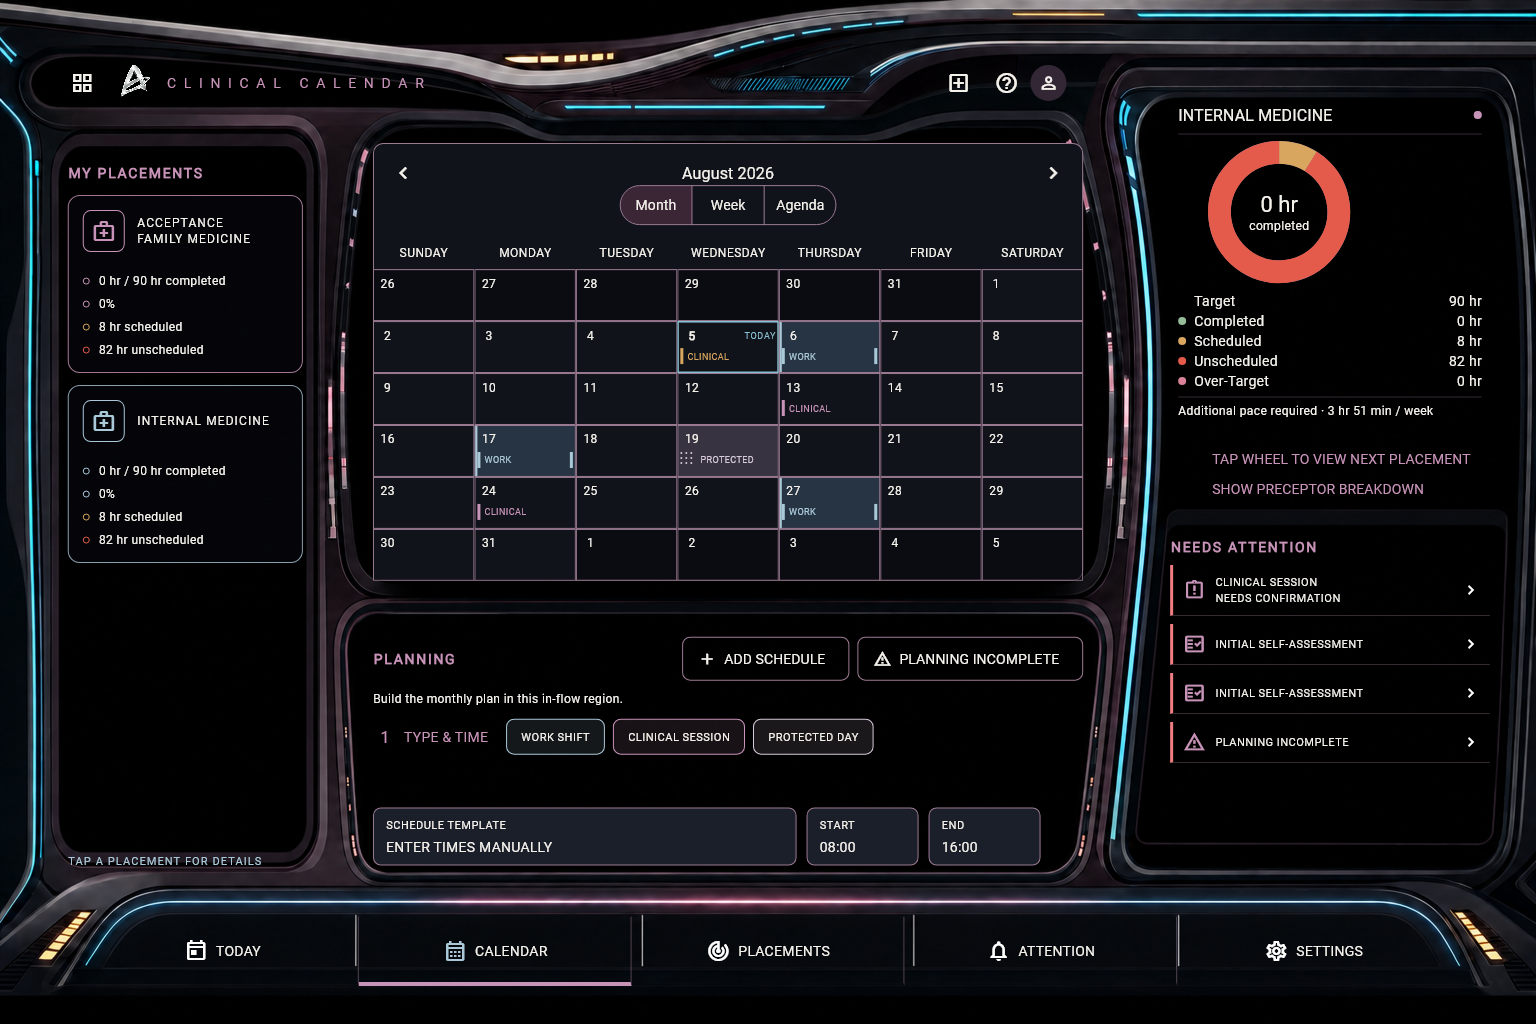
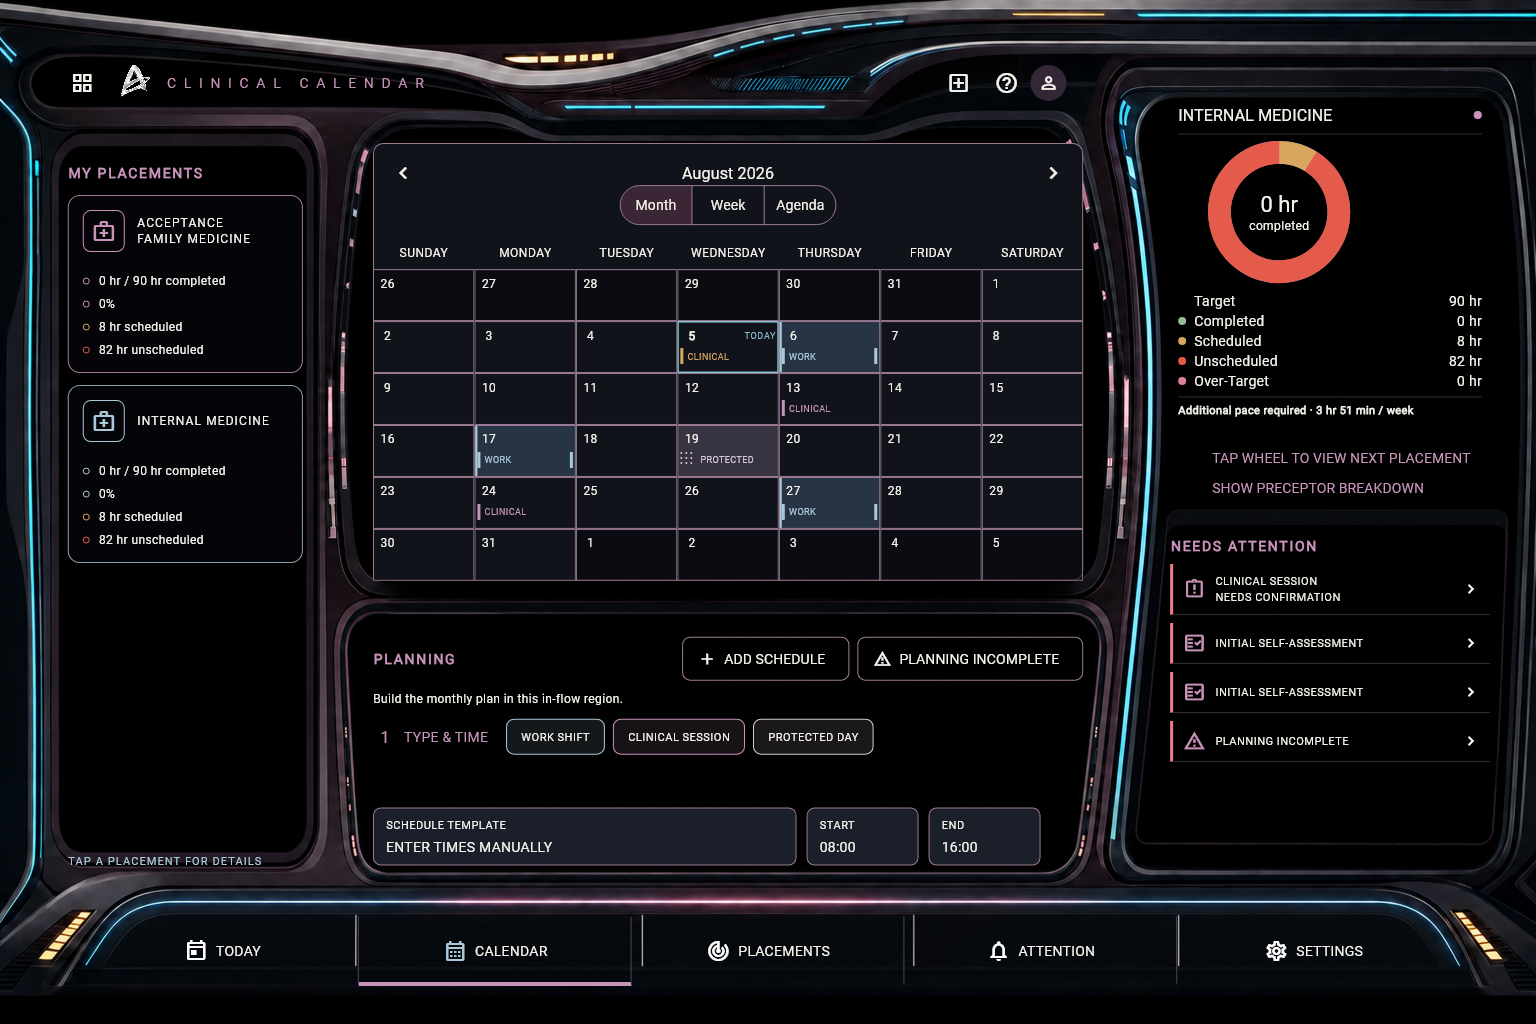
Emphasize Federation pace requirement (#134)

diff --git a/packages/clinical_calendar_presentation/lib/src/placements/placement_progress_widgets.dart b/packages/clinical_calendar_presentation/lib/src/placements/placement_progress_widgets.dart
@@ -359,8 +359,9 @@ final class PlacementMetricLedger extends StatelessWidget {
   @override
   Widget build(BuildContext context) {
     final progress = snapshot.progress;
-    final compact =
-        PlacementProgressPanelPolicy.maybeOf(context)?.compactLedger ?? false;
+    final policy = PlacementProgressPanelPolicy.maybeOf(context);
+    final compact = policy?.compactLedger ?? false;
+    final emphasizeProjection = policy?.conceptActionRail ?? false;
     final metrics = <(String, int, Color?)>[
       ('Target', progress.targetMinutes, null),
       ('Completed', progress.completedMinutes, _completedColor(context)),
@@ -408,7 +409,13 @@ final class PlacementMetricLedger extends StatelessWidget {
           child: Text(
             _projectionText(progress),
             key: const Key('placement-projection'),
-            style: Theme.of(context).textTheme.bodySmall,
+            style: Theme.of(context).textTheme.bodySmall?.copyWith(
+              color: emphasizeProjection
+                  ? context.clinicalColors.primaryText
+                  : null,
+              fontSize: emphasizeProjection ? 11 : null,
+              fontWeight: emphasizeProjection ? FontWeight.w600 : null,
+            ),
           ),
         ),
       ],

diff --git a/packages/clinical_calendar_presentation/test/federation_2399_visual_proof_test.dart b/packages/clinical_calendar_presentation/test/federation_2399_visual_proof_test.dart
@@ -69,6 +69,18 @@ void main() {
     expect(find.byKey(const Key('toggle-preceptor-breakdown')), findsOneWidget);
     expect(find.text('TAP WHEEL TO VIEW NEXT PLACEMENT'), findsOneWidget);
     expect(find.text('SHOW PRECEPTOR BREAKDOWN'), findsOneWidget);
+    expect(find.textContaining('Additional pace required'), findsOneWidget);
+    final projection = tester.getRect(
+      find.byKey(const Key('placement-projection')),
+    );
+    final cycleLabel = tester.getRect(
+      find.byKey(const Key('cycle-placement-label')),
+    );
+    expect(
+      projection.bottom,
+      lessThan(cycleLabel.top),
+      reason: 'The domain-derived pace requirement belongs above the action.',
+    );
     expect(find.text('0%'), findsNWidgets(2));
     expect(
       find.descendant(

diff --git a/docs/themes/acceptance/proofs/federation-2399-v4/README.md b/docs/themes/acceptance/proofs/federation-2399-v4/README.md
@@ -20,6 +20,9 @@ transparent copy as `axion-delta-mark-v1.png`; the runtime displays the
 metallic raster directly without a flattening tint. The Planning proof also
 shortens the schedule-template row and enforces at least 48 pixels between the
 END field and the planning-bay boundary so `16:00` cannot overlap the chrome.
+The production progress ledger presents its domain-derived **Additional pace
+required** value immediately above the wheel action; an ordering regression
+prevents that calculation from disappearing or moving below the action rail.
 
 ## Evidence
 
@@ -61,8 +64,8 @@ comparison with runtime. Integer bounds use a 3 px rendering tolerance:
 
 ```text
 a96da3c7cd060348aded17ec783c093128ef1e6ed3b31f53d1a3ec7793913cc8  approved-concept-landscape.png
-138f08a371680cf2e8de22e91451e62152eb8f06be98eacb3410ca6768358eb1  landscape-concept-vs-runtime.png
-3d8c2c8408d13066457750b7060e9f96f62dc876202120a54fc4e1f2561356e4  runtime-landscape-1536x1024.png
+b5248059a3fdca882e4eb9a9fda1a6f088d321c951af886943d126b2695e757b  landscape-concept-vs-runtime.png
+24bf1dee9e41e42bc44f5f21630a0a50e5d0d8b4fb9ade6ea38c15210edf8d7f  runtime-landscape-1536x1024.png
 60240ecef08de85a752f0f3918470c2aac68ab85d28b1586da2af0a40828bd9d  runtime-portrait-200-percent-900x1440.png
 804a4af74ae713d795dc1ff869ab2893712b86949e5b291ecd53fe577bbcfb93  runtime-portrait-200-percent-scrolled-900x1440.png
 723ed49228f7e388fbc0a14f5c60f306128e9587288b9e55a7cf9b0db8d86d51  runtime-portrait-900x1440.png
